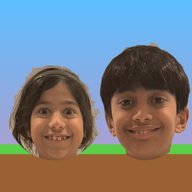
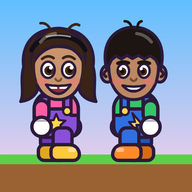
Draw the kids' faces as cartoons instead of using photos
Heads are now drawn in the same outlined style as the bodies, with blinking eyes.
The photo cut-outs are removed and the app icons are regenerated from the cartoons.

Claude-Session: https://claude.ai/code/session_01SmSsmXbkuNnYMpmVte1ARR

diff --git a/game.js b/game.js
@@ -10,23 +10,17 @@ const ctx = cv.getContext('2d');
 const params = new URLSearchParams(location.search);
 const DEBUG = params.has('debug');
 
-// ---------------------------------------------------------------- images
-const IMG = {};
-function loadImg(k, src) { const i = new Image(); i.src = src; IMG[k] = i; }
-loadImg('ayla', 'assets/ayla-head.png');
-loadImg('kameel', 'assets/kameel-head.png');
-
 // ---------------------------------------------------------------- characters
 const CHARS = {
   ayla: {
-    name: 'Ayla', speed: 4.1, jump: 11.8, tag: 'Super Jumper!', color: '#ff6fa8', skin: '#c08a66',
+    name: 'Ayla', speed: 4.1, jump: 11.8, tag: 'Super Jumper!', color: '#ff6fa8', skin: '#c9946e',
     shirt: '#ff5fa2', shirtDark: '#d94484', overalls: '#8a4fd8', overallsDark: '#6d38b5',
-    boots: '#ffc93c', bootsDark: '#e0a820', emblem: 'star'
+    boots: '#ffc93c', bootsDark: '#e0a820', emblem: 'star', hair: '#3a2418', hairShine: 'rgba(255,220,180,.35)'
   },
   kameel: {
-    name: 'Kameel', speed: 4.9, jump: 11.0, tag: 'Super Speedy!', color: '#4fb3ff', skin: '#b07a5a',
+    name: 'Kameel', speed: 4.9, jump: 11.0, tag: 'Super Speedy!', color: '#4fb3ff', skin: '#bd8762',
     shirt: '#35c46a', shirtDark: '#249a4e', overalls: '#2f6fe0', overallsDark: '#2255b5',
-    boots: '#ff8a2a', bootsDark: '#d96c12', emblem: 'bolt'
+    boots: '#ff8a2a', bootsDark: '#d96c12', emblem: 'bolt', hair: '#1c1512', hairShine: 'rgba(255,255,255,.28)'
   }
 };
 
@@ -1113,15 +1107,79 @@ function text(s, x, y, size, color = '#fff', align = 'center', stroke = '#2b1a3a
   if (stroke) { ctx.lineJoin = 'round'; ctx.lineWidth = sw; ctx.strokeStyle = stroke; ctx.strokeText(s, x, y); }
   ctx.fillStyle = color; ctx.fillText(s, x, y);
 }
+// Cartoon head, drawn to match the kid: x = center, y = chin, hh = height
 function drawHead(who, x, y, hh) {
-  const im = IMG[who];
-  if (im.complete && im.naturalWidth) {
-    const w = hh * im.naturalWidth / im.naturalHeight;
-    ctx.drawImage(im, x - w / 2, y - hh, w, hh);
-  } else { ctx.fillStyle = CHARS[who].skin; ctx.beginPath(); ctx.arc(x, y - hh / 2, hh / 2, 0, 7); ctx.fill(); }
+  const ch = CHARS[who], k = hh / 36, OL = '#2b1a3a';
+  const blink = (game.t + (who === 'ayla' ? 0 : 97)) % 210 < 7;
+  ctx.save(); ctx.translate(x, y); ctx.scale(k, k);
+  ctx.lineCap = 'round'; ctx.lineJoin = 'round'; ctx.lineWidth = 1.5; ctx.strokeStyle = OL;
+  const shape = fill => { ctx.fillStyle = fill; ctx.fill(); ctx.stroke(); };
+  const HAIR = ch.hair, SHINE = ch.hairShine;
+  if (who === 'ayla') {
+    // long wavy hair behind the face, tucked back with wispy ends
+    ctx.beginPath(); ctx.moveTo(0, -36);
+    ctx.bezierCurveTo(-13, -37, -19, -27, -17.5, -17); ctx.bezierCurveTo(-19.5, -10, -17, -4, -19, 0.5);
+    ctx.bezierCurveTo(-14.5, 0, -11, -2.5, -10, -7); ctx.lineTo(10, -7);
+    ctx.bezierCurveTo(11, -2.5, 14.5, 0, 19, 0.5); ctx.bezierCurveTo(17, -4, 19.5, -10, 17.5, -17);
+    ctx.bezierCurveTo(19, -27, 13, -37, 0, -36); ctx.closePath(); shape(HAIR);
+  } else {
+    // ears
+    for (const s of [-1, 1]) { ctx.beginPath(); ctx.ellipse(s * 13.2, -13.5, 3.2, 4.2, 0, 0, 7); shape(ch.skin); ctx.beginPath(); ctx.arc(s * 13.4, -13.5, 1.5, s > 0 ? -1.2 : 1.9, s > 0 ? 1.2 : 4.3); ctx.stroke(); }
+  }
+  // face
+  ctx.beginPath(); ctx.moveTo(-12.5, -19); ctx.bezierCurveTo(-13, -8, -8, -0.5, 0, -0.5); ctx.bezierCurveTo(8, -0.5, 13, -8, 12.5, -19);
+  ctx.bezierCurveTo(12, -30, -12, -30, -12.5, -19); ctx.closePath(); shape(ch.skin);
+  // cheeks
+  ctx.fillStyle = 'rgba(255,110,120,.35)'; ctx.beginPath(); ctx.ellipse(-8, -9.5, 3, 2, 0, 0, 7); ctx.ellipse(8, -9.5, 3, 2, 0, 0, 7); ctx.fill();
+  if (who === 'ayla') {
+    // hair on top, parted, with a headband
+    ctx.beginPath(); ctx.moveTo(-13.2, -17); ctx.bezierCurveTo(-15, -30, -8, -36.5, 0, -36.5); ctx.bezierCurveTo(8, -36.5, 15, -30, 13.2, -17);
+    ctx.bezierCurveTo(12, -23, 7, -27.5, 1, -27.5); ctx.bezierCurveTo(-6, -27.5, -11.5, -23, -13.2, -17); ctx.closePath(); shape(HAIR);
+    ctx.strokeStyle = '#11101a'; ctx.lineWidth = 2.4; ctx.beginPath(); ctx.moveTo(-13.5, -25.5); ctx.bezierCurveTo(-9, -35, 9, -35, 13.5, -25.5); ctx.stroke();
+    ctx.strokeStyle = 'rgba(255,255,255,.55)'; ctx.lineWidth = 0.8; ctx.beginPath(); ctx.moveTo(-6, -32.2); ctx.quadraticCurveTo(0, -33.6, 6, -32.2); ctx.stroke();
+    // loose strands
+    ctx.strokeStyle = HAIR; ctx.lineWidth = 1.3; ctx.beginPath();
+    ctx.moveTo(-12.5, -21); ctx.quadraticCurveTo(-13.5, -14, -11.5, -9.5); ctx.moveTo(12.5, -21); ctx.quadraticCurveTo(13.5, -14, 11.5, -9.5);
+    ctx.moveTo(-4, -36); ctx.quadraticCurveTo(-6, -39.5, -9, -39); ctx.moveTo(5, -36); ctx.quadraticCurveTo(8, -39.5, 10.5, -38); ctx.stroke();
+  } else {
+    // short hair with a straight fringe
+    ctx.beginPath(); ctx.moveTo(-13.6, -15.5); ctx.bezierCurveTo(-17, -30, -9, -37, 0, -37); ctx.bezierCurveTo(9, -37, 17, -30, 13.6, -15.5);
+    ctx.lineTo(11.2, -20.5); ctx.lineTo(8.8, -22.5); ctx.lineTo(6.2, -21); ctx.lineTo(3.4, -22.8); ctx.lineTo(0.6, -21.2); ctx.lineTo(-2.4, -22.8); ctx.lineTo(-5.4, -21); ctx.lineTo(-8.4, -22.6); ctx.lineTo(-11.2, -20.5);
+    ctx.closePath(); shape(HAIR);
+    ctx.strokeStyle = HAIR; ctx.lineWidth = 1.3; ctx.beginPath(); ctx.moveTo(1, -37); ctx.quadraticCurveTo(2, -40, 4.5, -40); ctx.moveTo(-2, -37); ctx.quadraticCurveTo(-2, -39.5, -4, -40); ctx.stroke();
+  }
+  // hair shine
+  ctx.strokeStyle = SHINE; ctx.lineWidth = 1.6; ctx.beginPath(); ctx.moveTo(-9, -29.5); ctx.quadraticCurveTo(-6, -33.3, -1.5, -33.8); ctx.stroke();
+  // eyes
+  ctx.strokeStyle = OL; ctx.lineWidth = 1.2;
+  const ey = who === 'ayla' ? -15.5 : -15, er = who === 'ayla' ? 4.1 : 3.5;
+  for (const s of [-1, 1]) {
+    if (blink) { ctx.beginPath(); ctx.arc(s * 5.2, ey - 1, 3, 0.25, Math.PI - 0.25); ctx.stroke(); continue; }
+    ctx.beginPath(); ctx.ellipse(s * 5.2, ey, er * 0.82, er, 0, 0, 7); shape('#fff');
+    ctx.fillStyle = '#4a2a16'; ctx.beginPath(); ctx.arc(s * 5.2 + 0.5, ey + 0.4, er * 0.58, 0, 7); ctx.fill();
+    ctx.fillStyle = '#16100c'; ctx.beginPath(); ctx.arc(s * 5.2 + 0.5, ey + 0.4, er * 0.3, 0, 7); ctx.fill();
+    ctx.fillStyle = '#fff'; ctx.beginPath(); ctx.arc(s * 5.2 + 1.4, ey - 1, er * 0.22, 0, 7); ctx.fill();
+  }
+  // eyebrows
+  ctx.strokeStyle = HAIR; ctx.lineWidth = who === 'ayla' ? 1.3 : 1.7;
+  const by = who === 'ayla' ? -22 : (-20.2);
+  if (who === 'ayla') { ctx.beginPath(); ctx.moveTo(-8.2, by + 1); ctx.quadraticCurveTo(-5.2, by - 1.4, -2.4, by + 0.6); ctx.moveTo(8.2, by + 1); ctx.quadraticCurveTo(5.2, by - 1.4, 2.4, by + 0.6); ctx.stroke(); }
+  else { ctx.beginPath(); ctx.moveTo(-8, by + 1.4); ctx.quadraticCurveTo(-5.2, by + 0.2, -2.6, by + 1.2); ctx.moveTo(8, by + 1.4); ctx.quadraticCurveTo(5.2, by + 0.2, 2.6, by + 1.2); ctx.stroke(); }
+  // nose
+  ctx.strokeStyle = 'rgba(70,35,20,.6)'; ctx.lineWidth = 1.1; ctx.beginPath(); ctx.arc(0, -11.4, 1.5, 0.3, Math.PI - 0.3); ctx.stroke();
+  // big smile with teeth
+  ctx.strokeStyle = OL; ctx.lineWidth = 1.2;
+  const mw = who === 'ayla' ? 6.2 : 5.6, my = who === 'ayla' ? -8 : -7.6, md = who === 'ayla' ? 5.2 : 3.6;
+  ctx.beginPath(); ctx.moveTo(-mw, my); ctx.quadraticCurveTo(0, my + 1.2, mw, my); ctx.quadraticCurveTo(0, my + md * 2 - 1.2, -mw, my); ctx.closePath(); shape('#8a2f3a');
+  ctx.save(); ctx.clip();
+  ctx.fillStyle = '#fff'; ctx.fillRect(-mw, my - 1, mw * 2, 3.1);
+  if (who === 'ayla') { ctx.fillStyle = '#8a2f3a'; ctx.fillRect(-0.55, my, 1.1, 2.4); ctx.fillStyle = '#ff8f9c'; ctx.beginPath(); ctx.ellipse(0, my + md + 1.2, 3.2, 2, 0, 0, 7); ctx.fill(); }
+  ctx.restore();
+  ctx.beginPath(); ctx.moveTo(-mw, my); ctx.quadraticCurveTo(0, my + 1.2, mw, my); ctx.quadraticCurveTo(0, my + md * 2 - 1.2, -mw, my); ctx.stroke();
+  ctx.restore();
 }
 
-// Draw a kid: x = center, y = feet. Photo head on a chunky cartoon hero body:
+// Draw a kid: x = center, y = feet. Cartoon head on a chunky cartoon hero body:
 // overalls with gold buttons, a bright shirt, white gloves, big boots and an emblem.
 function drawKid(who, x, y, o = {}) {
   const ch = CHARS[who];
@@ -1167,7 +1225,7 @@ function drawKid(who, x, y, o = {}) {
   ctx.lineWidth = 1.6;
   leg(air ? 0.4 : swing, false);
   arm(air ? -2.1 : -swing * 0.95, false);
-  // head (photo)
+  // head
   const bob = air ? 0 : Math.abs(Math.sin(run)) * -1.5;
   ctx.save(); ctx.translate(1, -28 + bob); ctx.rotate((o.tilt || 0));
   drawHead(who, 0, 0, 34);

diff --git a/README.md b/README.md
@@ -1,7 +1,7 @@
 # Ayla & Kameel's Super Obstacle Course
 
 A web platformer starring **Ayla** (Super Jumper!) and **Kameel** (Super Speedy!).
-It runs in the browser with no installs and no build step.
+The characters are fully hand-drawn cartoons, and the game runs in the browser with no installs and no build step.
 
 ## How to play
 
